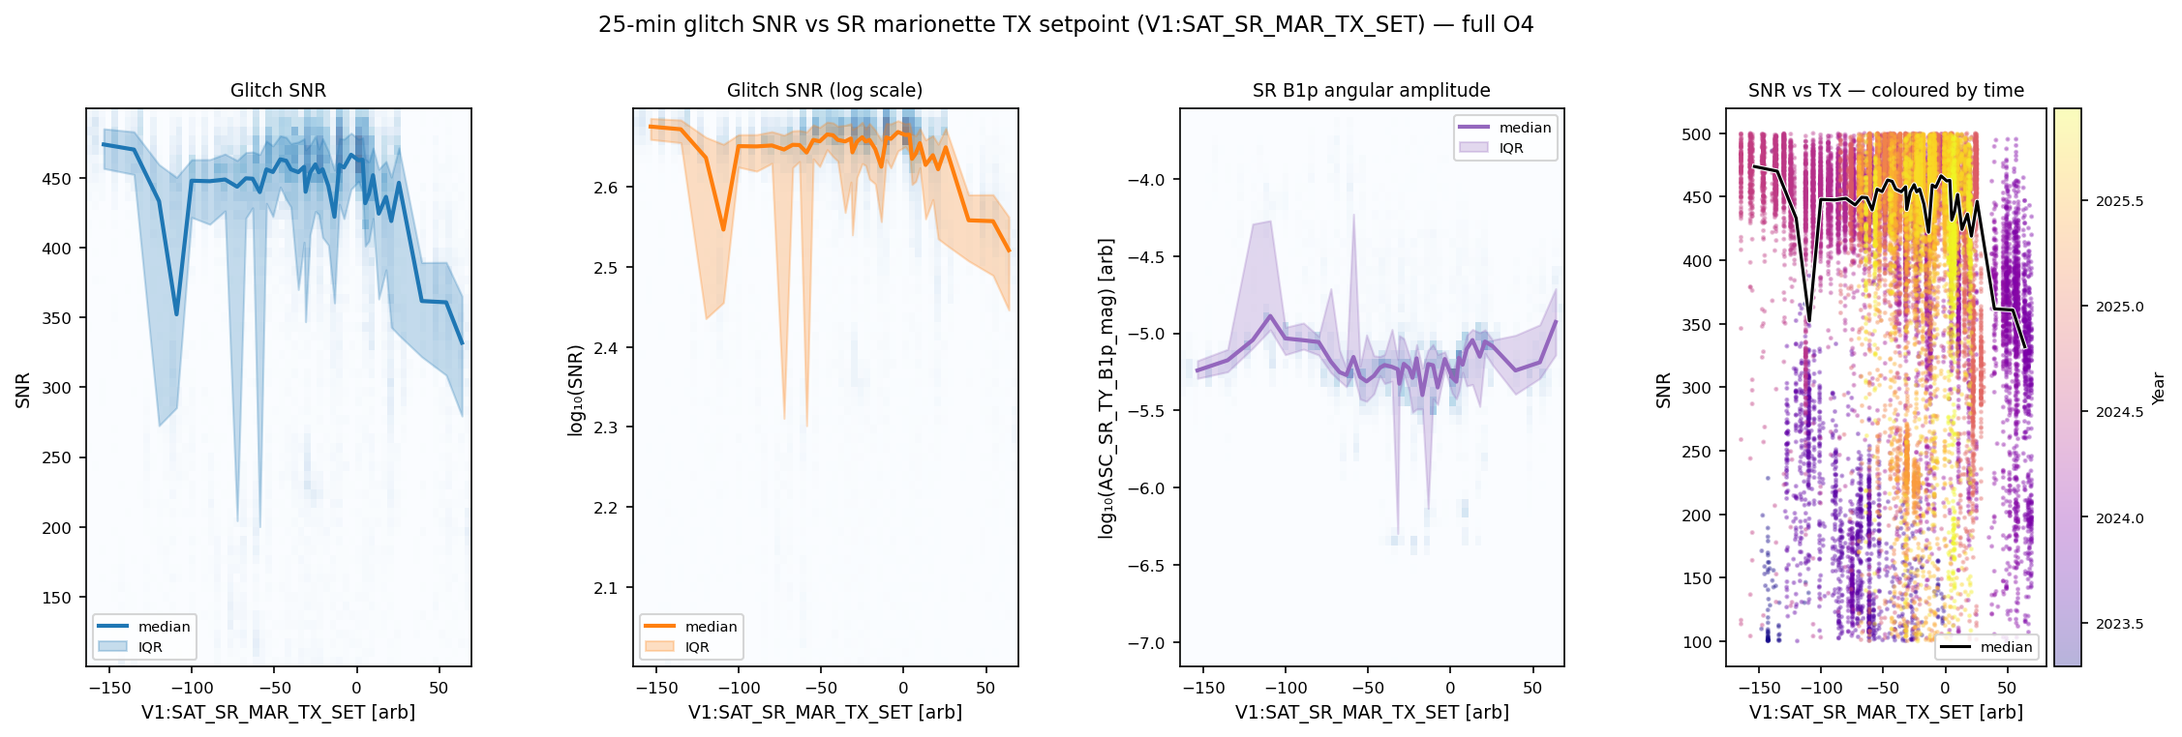
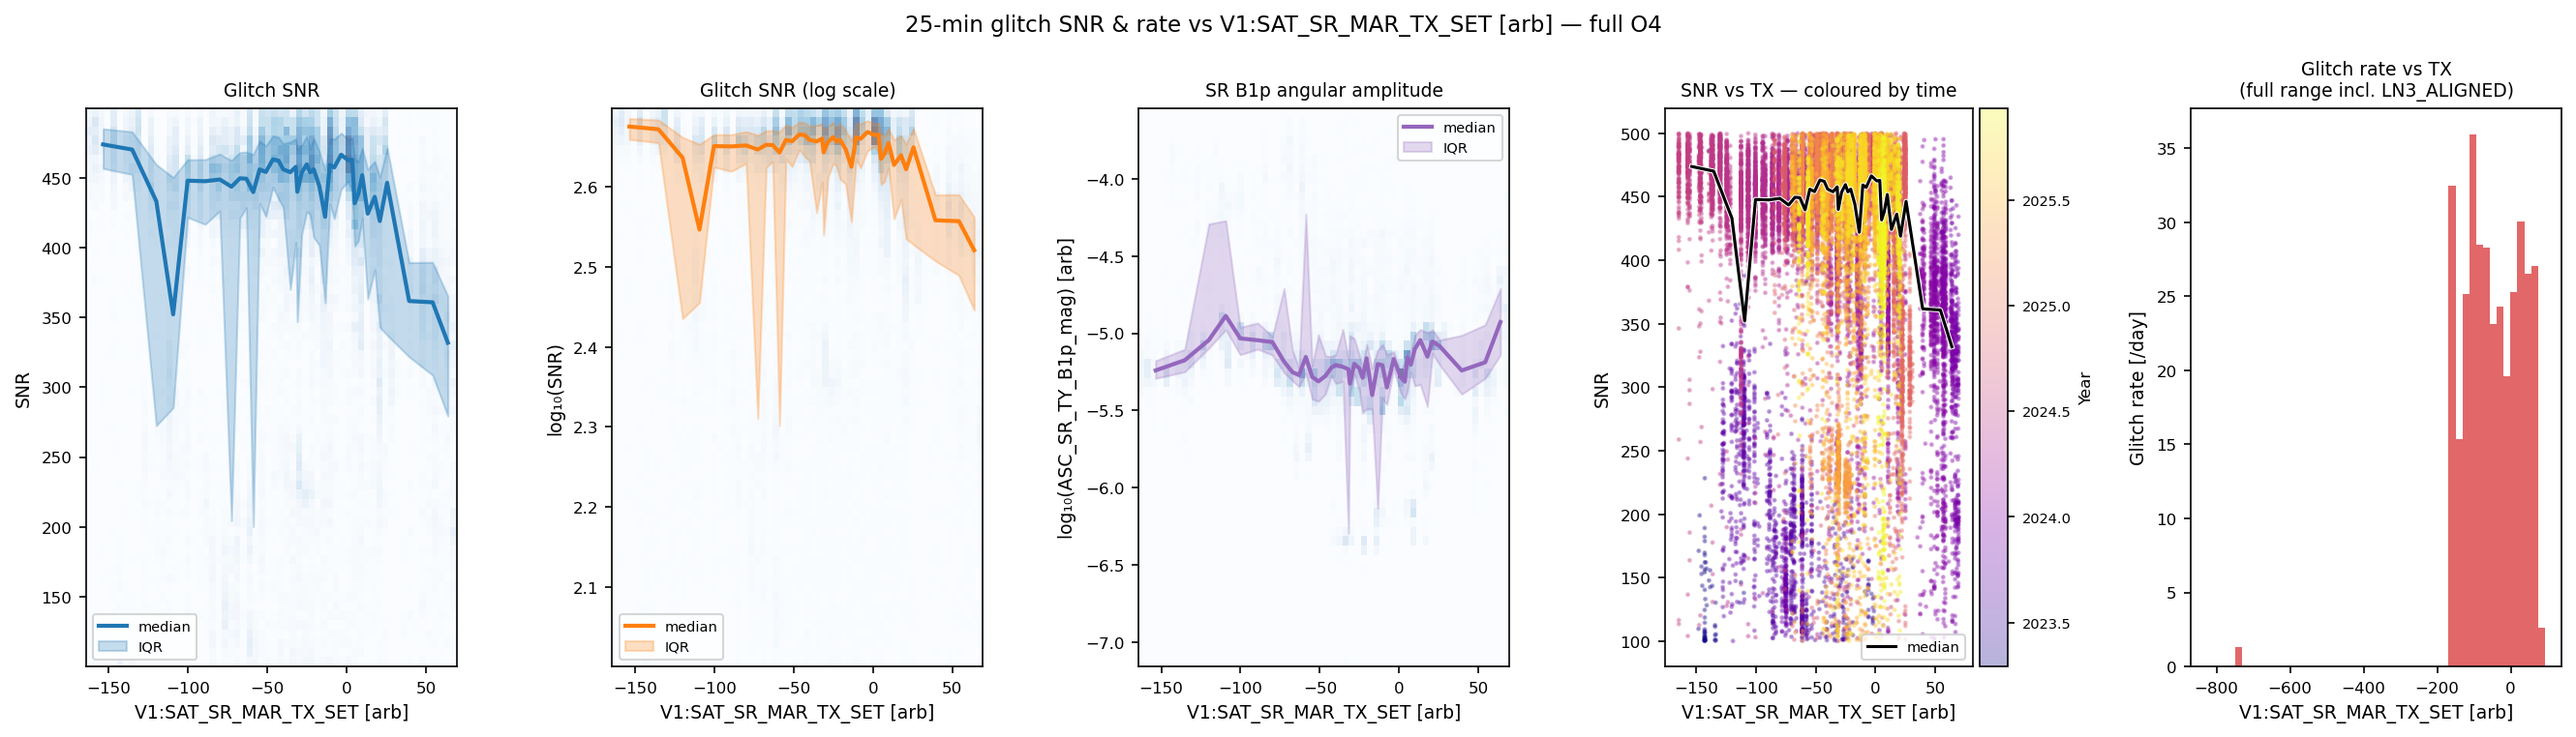
feat: add glitch rate vs TX panel — shows LN3_ALIGNED zero-rate region
5th panel shows glitch rate (events/day) vs TX over full TX range including
LN3_ALIGNED (TX≈-787) where rate drops to zero. This is the key missing
data point that contextualises the flat SNR within the glitch-active period.

diff --git a/scripts/analyze_glitch_vs_sr_tx.py b/scripts/analyze_glitch_vs_sr_tx.py
@@ -115,20 +115,15 @@ def main():
     year_frac = 1980 + gps / (365.25 * 86400)
 
     # ── Plot ────────────────────────────────────────────────────────────────
-    fig = plt.figure(figsize=(18, 5))
-    fig.suptitle(
-        f"25-min glitch SNR vs {x_label} — full O4",
-        fontsize=11, y=1.01
-    )
-    gs = GridSpec(1, 4, figure=fig, wspace=0.42)
+    fig = plt.figure(figsize=(22, 5))
+    fig.suptitle(f"25-min glitch SNR & rate vs {x_label} — full O4", fontsize=11, y=1.01)
+    gs = GridSpec(1, 5, figure=fig, wspace=0.42)
 
     panel(fig.add_subplot(gs[0, 0]), tx, snr,
-          x_label, "SNR",
-          "Glitch SNR", "tab:blue", x_clip)
+          x_label, "SNR", "Glitch SNR", "tab:blue", x_clip)
 
     panel(fig.add_subplot(gs[0, 1]), tx, np.log10(snr),
-          x_label, "log₁₀(SNR)",
-          "Glitch SNR (log scale)", "tab:orange", x_clip)
+          x_label, "log₁₀(SNR)", "Glitch SNR (log scale)", "tab:orange", x_clip)
 
     valid_b1p = np.isfinite(b1p_mag) & (b1p_mag > 0)
     if valid_b1p.sum() > 100:
@@ -137,15 +132,13 @@ def main():
               "SR B1p angular amplitude", "tab:purple", x_clip)
     else:
         panel(fig.add_subplot(gs[0, 2]), tx, snr,
-              x_label, "SNR",
-              "Glitch SNR (fallback)", "tab:purple", x_clip)
+              x_label, "SNR", "Glitch SNR (fallback)", "tab:purple", x_clip)
 
     # ── Panel 4: SNR vs TX coloured by time ────────────────────────────────
     ax4 = fig.add_subplot(gs[0, 3])
     mask = (tx >= x_clip[0]) & (tx <= x_clip[1]) & np.isfinite(snr)
     sc = ax4.scatter(tx[mask], snr[mask], c=year_frac[mask], cmap="plasma",
                      s=2, alpha=0.3, rasterized=True)
-    # Binned median overlay
     cx, med, p25, p75, _ = binned_stats(tx[mask], snr[mask], n_bins=40)
     ax4.plot(cx, med, color="white", lw=2.5)
     ax4.plot(cx, med, color="black", lw=1.5, label="median")
@@ -157,6 +150,22 @@ def main():
     ax4.set_title("SNR vs TX — coloured by time", fontsize=9)
     ax4.tick_params(labelsize=8)
     ax4.legend(fontsize=7)
+
+    # ── Panel 5: glitch RATE vs TX — full range including LN3_ALIGNED ──────
+    ax5 = fig.add_subplot(gs[0, 4])
+    tx_all = sr[x_col].values
+    tx_edges = np.linspace(np.nanpercentile(tx_all, 0.1),
+                           np.nanpercentile(tx_all, 99.9), 50)
+    hours_per_bin, _  = np.histogram(tx_all[np.isfinite(tx_all)], bins=tx_edges)
+    glitch_per_bin, _ = np.histogram(tx[np.isfinite(tx)], bins=tx_edges)
+    rate = np.where(hours_per_bin > 0,
+                    glitch_per_bin / hours_per_bin * 24, np.nan)  # glitches/day
+    centres = (tx_edges[:-1] + tx_edges[1:]) / 2
+    ax5.bar(centres, rate, width=np.diff(tx_edges), color="tab:red", alpha=0.7)
+    ax5.set_xlabel(x_label, fontsize=9)
+    ax5.set_ylabel("Glitch rate [/day]", fontsize=9)
+    ax5.set_title("Glitch rate vs TX\n(full range incl. LN3_ALIGNED)", fontsize=9)
+    ax5.tick_params(labelsize=8)
 
     out = Path(args.output)
     out.parent.mkdir(parents=True, exist_ok=True)
